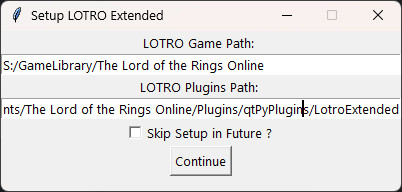
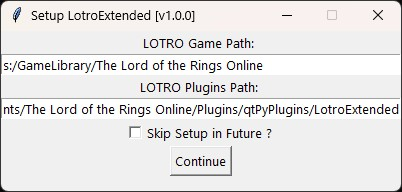
versioning & update image

diff --git a/lotro_extended.py b/lotro_extended.py
@@ -81,7 +81,7 @@ def set_lotroextended_settings(lotro_ext_settings):
 
 def create_lotro_extended_win(settings):
     win = tk.Tk()
-    win.title('Setup LOTRO Extended')
+    win.title(config.TOOL_NAME)
     win.geometry('400x160')
     win.resizable(False, False)
 

diff --git a/lotro_extended_config.py b/lotro_extended_config.py
@@ -3,6 +3,9 @@
 
 import os
 
+TOOL_VERSION = 'v1.0.0'
+TOOL_NAME = f'Setup LotroExtended [{TOOL_VERSION}]'
+
 GAMENAME = 'The Lord of the Rings Online'
 COMPANY = 'StandingStoneGames'
 DOCUMENTS = os.path.expanduser('~/OneDrive/Documents')
